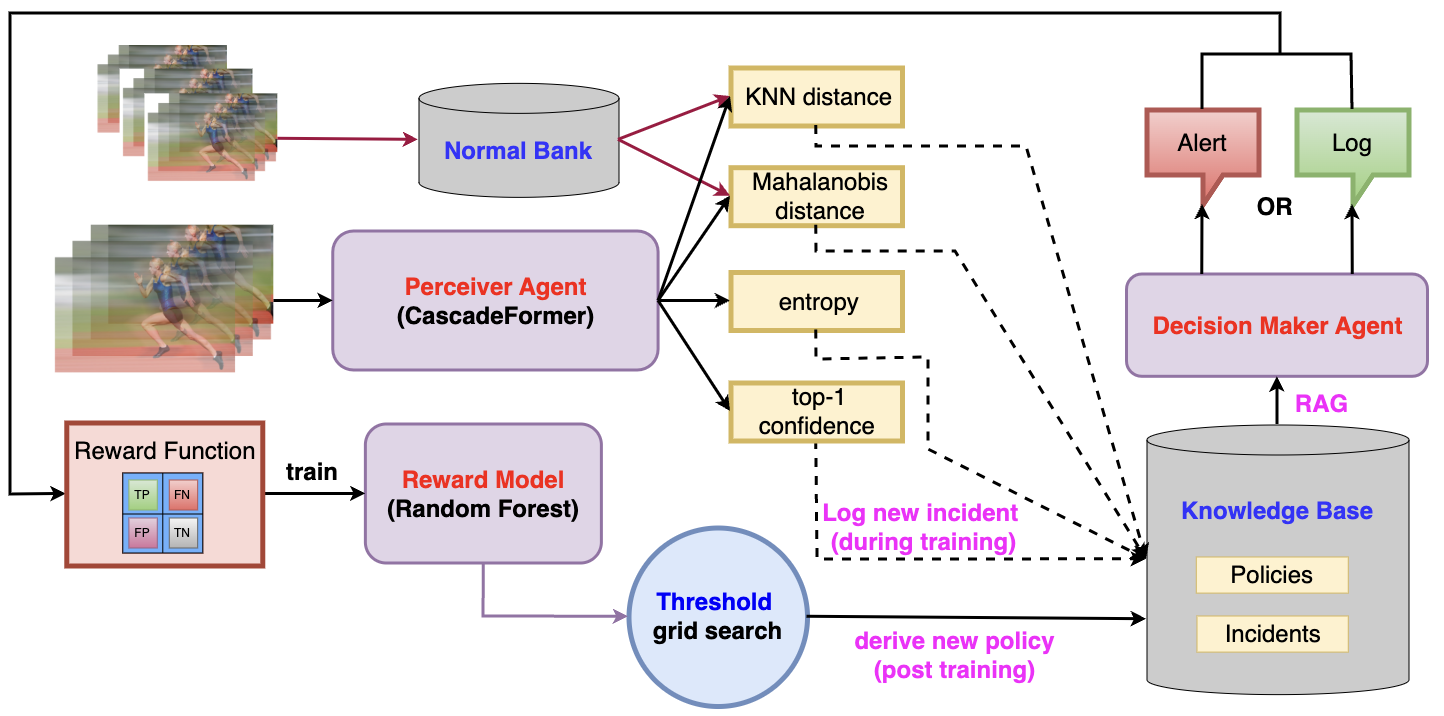
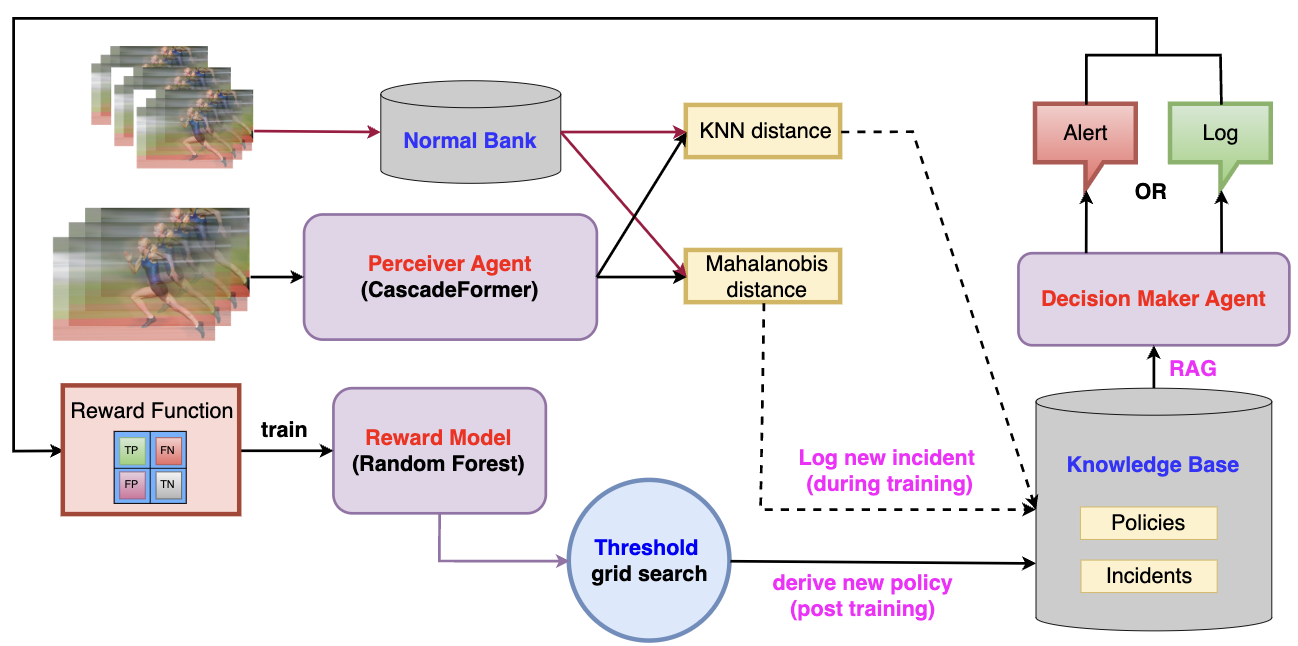
update the readme

Changed region(s): [[0.0, 0.0, 1.0, 1.0], [0.7088, 0.2786, 0.7396, 0.3715]]

diff --git a/README.md b/README.md
@@ -1,63 +1,10 @@
-# 🌊 CascadeFormer: A Family of Two-stage Cascading Transformers for Skeleton-based Human Action Recognition
+# 🎁 CascadeFormer 2: Towards a Cost-Aligned Anomaly Detection Agent via Reinforcement Learning with Verifiable Rewards
 
-## News/Updates
-
-- [September 16, 2025] paper under review at ICLR 2026!
-- [August 31, 2025] paper available on [arXiv](https://arxiv.org/abs/2509.00692)!
-- [July 19, 2025] model checkpoints are publicly available on [HuggingFace](https://huggingface.co/YusenPeng/CascadeFormerCheckpoints) for further analysis/application!
-
-## CascadeFormer
-
-![alt text](docs/CascadeFormer_pretrain.png)
-
-Overview of the masked pretraining component in CascadeFormer. A fixed percentage of joints are randomly masked across all frames in each video. The partially masked skeleton sequence is passed through a feature extraction module to produce frame-level embeddings, which are then input into a temporal transformer (T1). A lightweight linear decoder is applied to reconstruct the masked joints, and the model is optimized using mean squared error over the masked positions. This stage enables the model to learn generalizable spatiotemporal representations prior to supervised finetuning.
-
-![alt text](docs/CascadeFormer_finetune.png)
-
-Overview of the cascading finetuning component in CascadeFormer. The frame embeddings produced by the pre-
-trained temporal transformer backbone (T1) are passed into a task-specific transformer (T2) for hierarchical refinement. The output of T2 is fused with the original embeddings via a cross-attention module. The resulting fused representations are aggregated through frame-level average pooling and passed to a lightweight classification head. The entire model—including T1, T2, and the classification head—is optimized using cross-entropy loss on action labels during finetuning.
-
-## Evaluation
-
-![alt text](docs/eval_results.png)
-
-Overall accuracy evaluation results of CascadeFormer variants on three datasets. CascadeFormer 1.0 consistently
-achieves the highest accuracy on Penn Action and both NTU60 splits, while 1.1 excels on N-UCLA. All checkpoints are open-
-sourced for reproducibility.
-
-## Citation
-
-Please cite our work if you find it useful/helpful:
-
-```bibtex
-@misc{peng2025cascadeformerfamilytwostagecascading,
-      title={CascadeFormer: A Family of Two-stage Cascading Transformers for Skeleton-based Human Action Recognition}, 
-      author={Yusen Peng and Alper Yilmaz},
-      year={2025},
-      eprint={2509.00692},
-      archivePrefix={arXiv},
-      primaryClass={cs.CV},
-      url={https://arxiv.org/abs/2509.00692}, 
-}
-```
-
-## Contacts
-
-If you have any questions or suggestions, feel free to contact:
-
-- Yusen Peng (peng.1007@osu.edu)
-- Alper Yilmaz (yilmaz.15@osu.edu)
-
-Or describe it in Issues.
-
-
-## 🔥 Ongoing follow-up Work: CascadeFormer-Agent for anomaly detection
-
-### CascadeFormer-Agent
+## Agent Design
 
 ![alt text](/CascadeFormer-AD-Agent.png)
 
-### Commands
+## Commands
 
 ```bash
 # export the API key first
@@ -68,27 +15,4 @@ CUDA_VISIBLE_DEVICES=0 taskset -c 20-30 python baseline/action_recognition/casca
 CUDA_VISIBLE_DEVICES=0 taskset -c 20-30 python baseline/action_recognition/cascadeformer_1_0/joint/ntu_60_own/agent_RL.py
 # evaluation
 CUDA_VISIBLE_DEVICES=0 taskset -c 20-30 python baseline/action_recognition/cascadeformer_1_0/joint/ntu_60_own/agent_eval.py
-```
-
-### RL-assisted grid search for policy thresholds
-
-```csharp
-=== Policies in the knowledge base ===
-Raise an ALERT if any of the following conditions are met:
-- entropy >= 0.3821
-- knn_dist >= 0.1486
-- mahalanobis >= 17.4800
-- (1 - top1_conf) >= 0.0471
-Otherwise, LOG the event as normal.
-```
-
-### test-set evaluation (preliminary)
-
-```csharp
-=== Offline Evaluation (RL Policy over RANDOM TEST Batches) ===
-Samples   : 200
-Accuracy  : 0.4900
-Precision : 0.3108
-Recall    : 1.0000
-F1-score  : 0.4742
 ```
